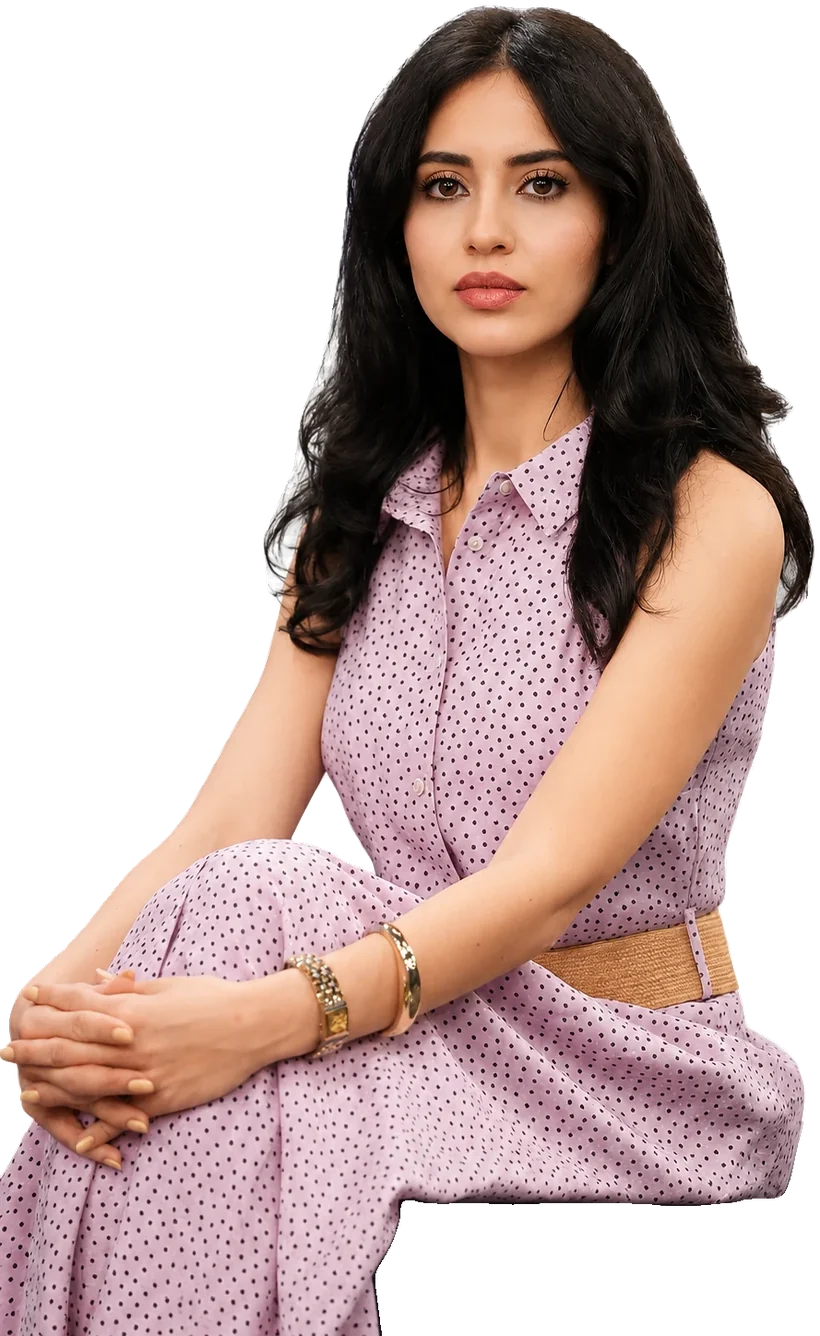
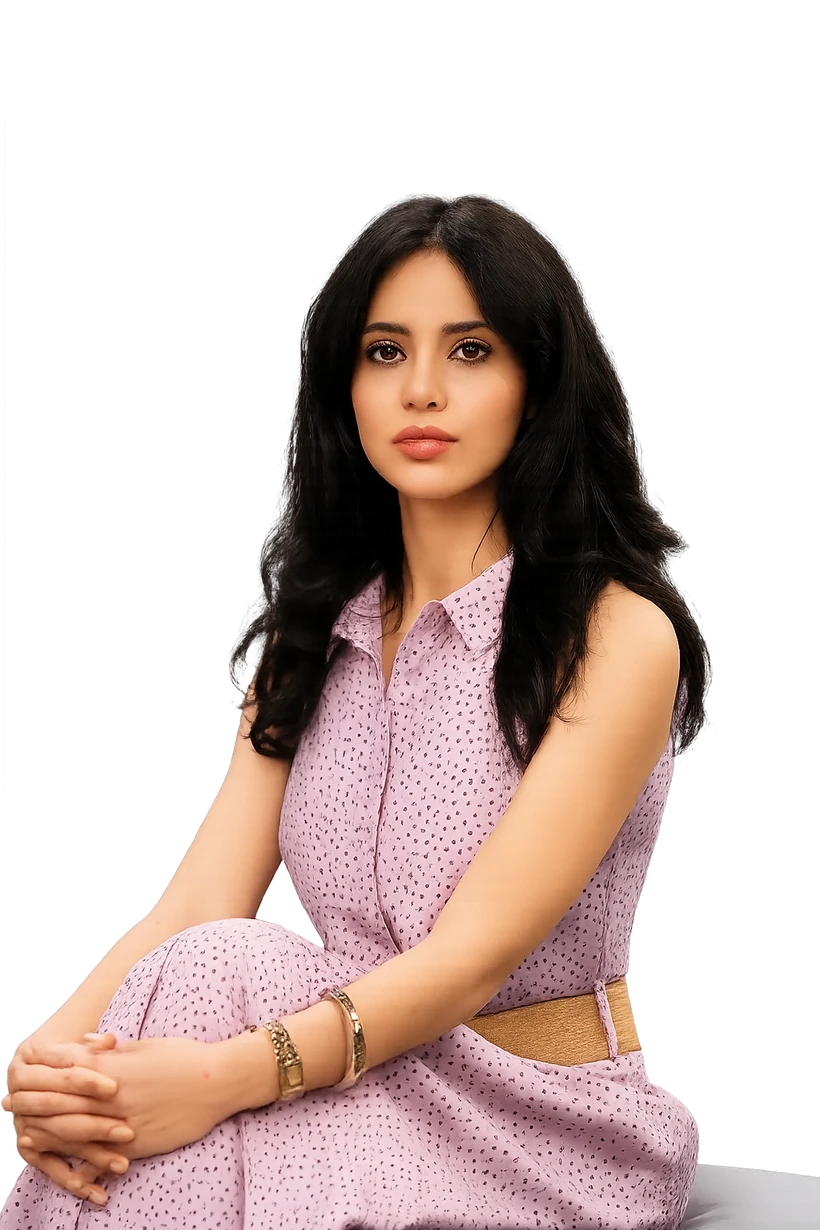
Esin Çağlayan iş birliği kartını Elvan oranına göre düzenle (#14)
Kullanıcının temizlediği (puf korunmuş, saç kenarları bozulmamış) şeffaf
görsel kullanıldı. Kadraj Elvan'ınkine göre normalize edildi: kafanın
üstüne boşluk eklenip alttan aynı miktar kırpılarak yüz boyutu Elvan'la
eşitlendi ve üstte benzer boşluk bırakıldı. Lavanta blob biraz büyütülüp
yükseltildi ve sağa kaydırılarak portrenin arkasına oturtuldu.

Claude-Session: https://claude.ai/code/session_011eaLHZzc7bGWapW8EXTLpR

diff --git a/src/data/site.ts b/src/data/site.ts
@@ -261,7 +261,7 @@ export const collaborationsContent = {
       leadStrong: 'Raw Data üzerinden',
       leadText: ' pratikte kullanılabilir kişiselleştirilmiş Nutrigenetik raporların tasarlanması ve ileri seviye nutrigenetik eğitimleriyle iş birliği modeli sağlanmıştır.',
       description: '',
-      design: { visualHeight: 240, imageWidth: 188, imageScale: 1.0, imageOffsetX: 26, imageOffsetY: 8, blobColor: '#e7dcea', blobOpacity: 0.9, blobGradientColor: '#d5c3dc', blobGradientOpacity: 0.55, blobWidth: 194, blobHeight: 224, blobOffsetX: -14, blobOffsetY: 6, blobRadius: 44, blobBlur: 0, blobShadowBlur: 34, blobShadowOpacity: 0.15, copyOffsetY: 0.85, brandLineFontSize: 1.14, partnerFontSize: 1.6, leadFontSize: 1.04 },
+      design: { visualHeight: 240, imageWidth: 188, imageScale: 1.02, imageOffsetX: 20, imageOffsetY: 8, blobColor: '#e7dcea', blobOpacity: 0.9, blobGradientColor: '#d5c3dc', blobGradientOpacity: 0.55, blobWidth: 202, blobHeight: 240, blobOffsetX: 34, blobOffsetY: 16, blobRadius: 44, blobBlur: 0, blobShadowBlur: 34, blobShadowOpacity: 0.15, copyOffsetY: 0.85, brandLineFontSize: 1.14, partnerFontSize: 1.6, leadFontSize: 1.04 },
     },
     {
       image: '/assets/images/intergen-building.webp',
